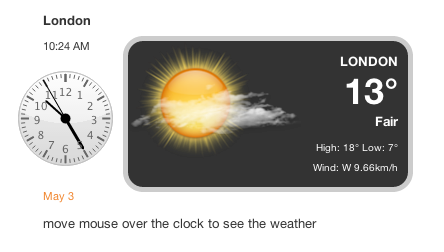
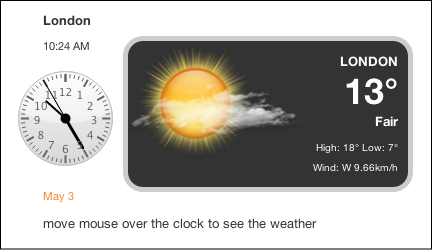
change screenshot

diff --git a/README.md b/README.md
@@ -1,7 +1,7 @@
 Time Zone Clocks and mose over Weather 
 ================
 
-[![](https://raw.github.com/sopmac/Clock-and-weather/master/screenshot.png)](https://raw.github.com/sopmac/Clock-and-weather/master/screenshot.png)
+[![](https://raw.github.com/sopmac/Clock-and-weather/develop/screenshot.png)](https://raw.github.com/sopmac/Clock-and-weather/develop/screenshot.png)
 
 Object Orientated time zone clocks using highcharts.
 
